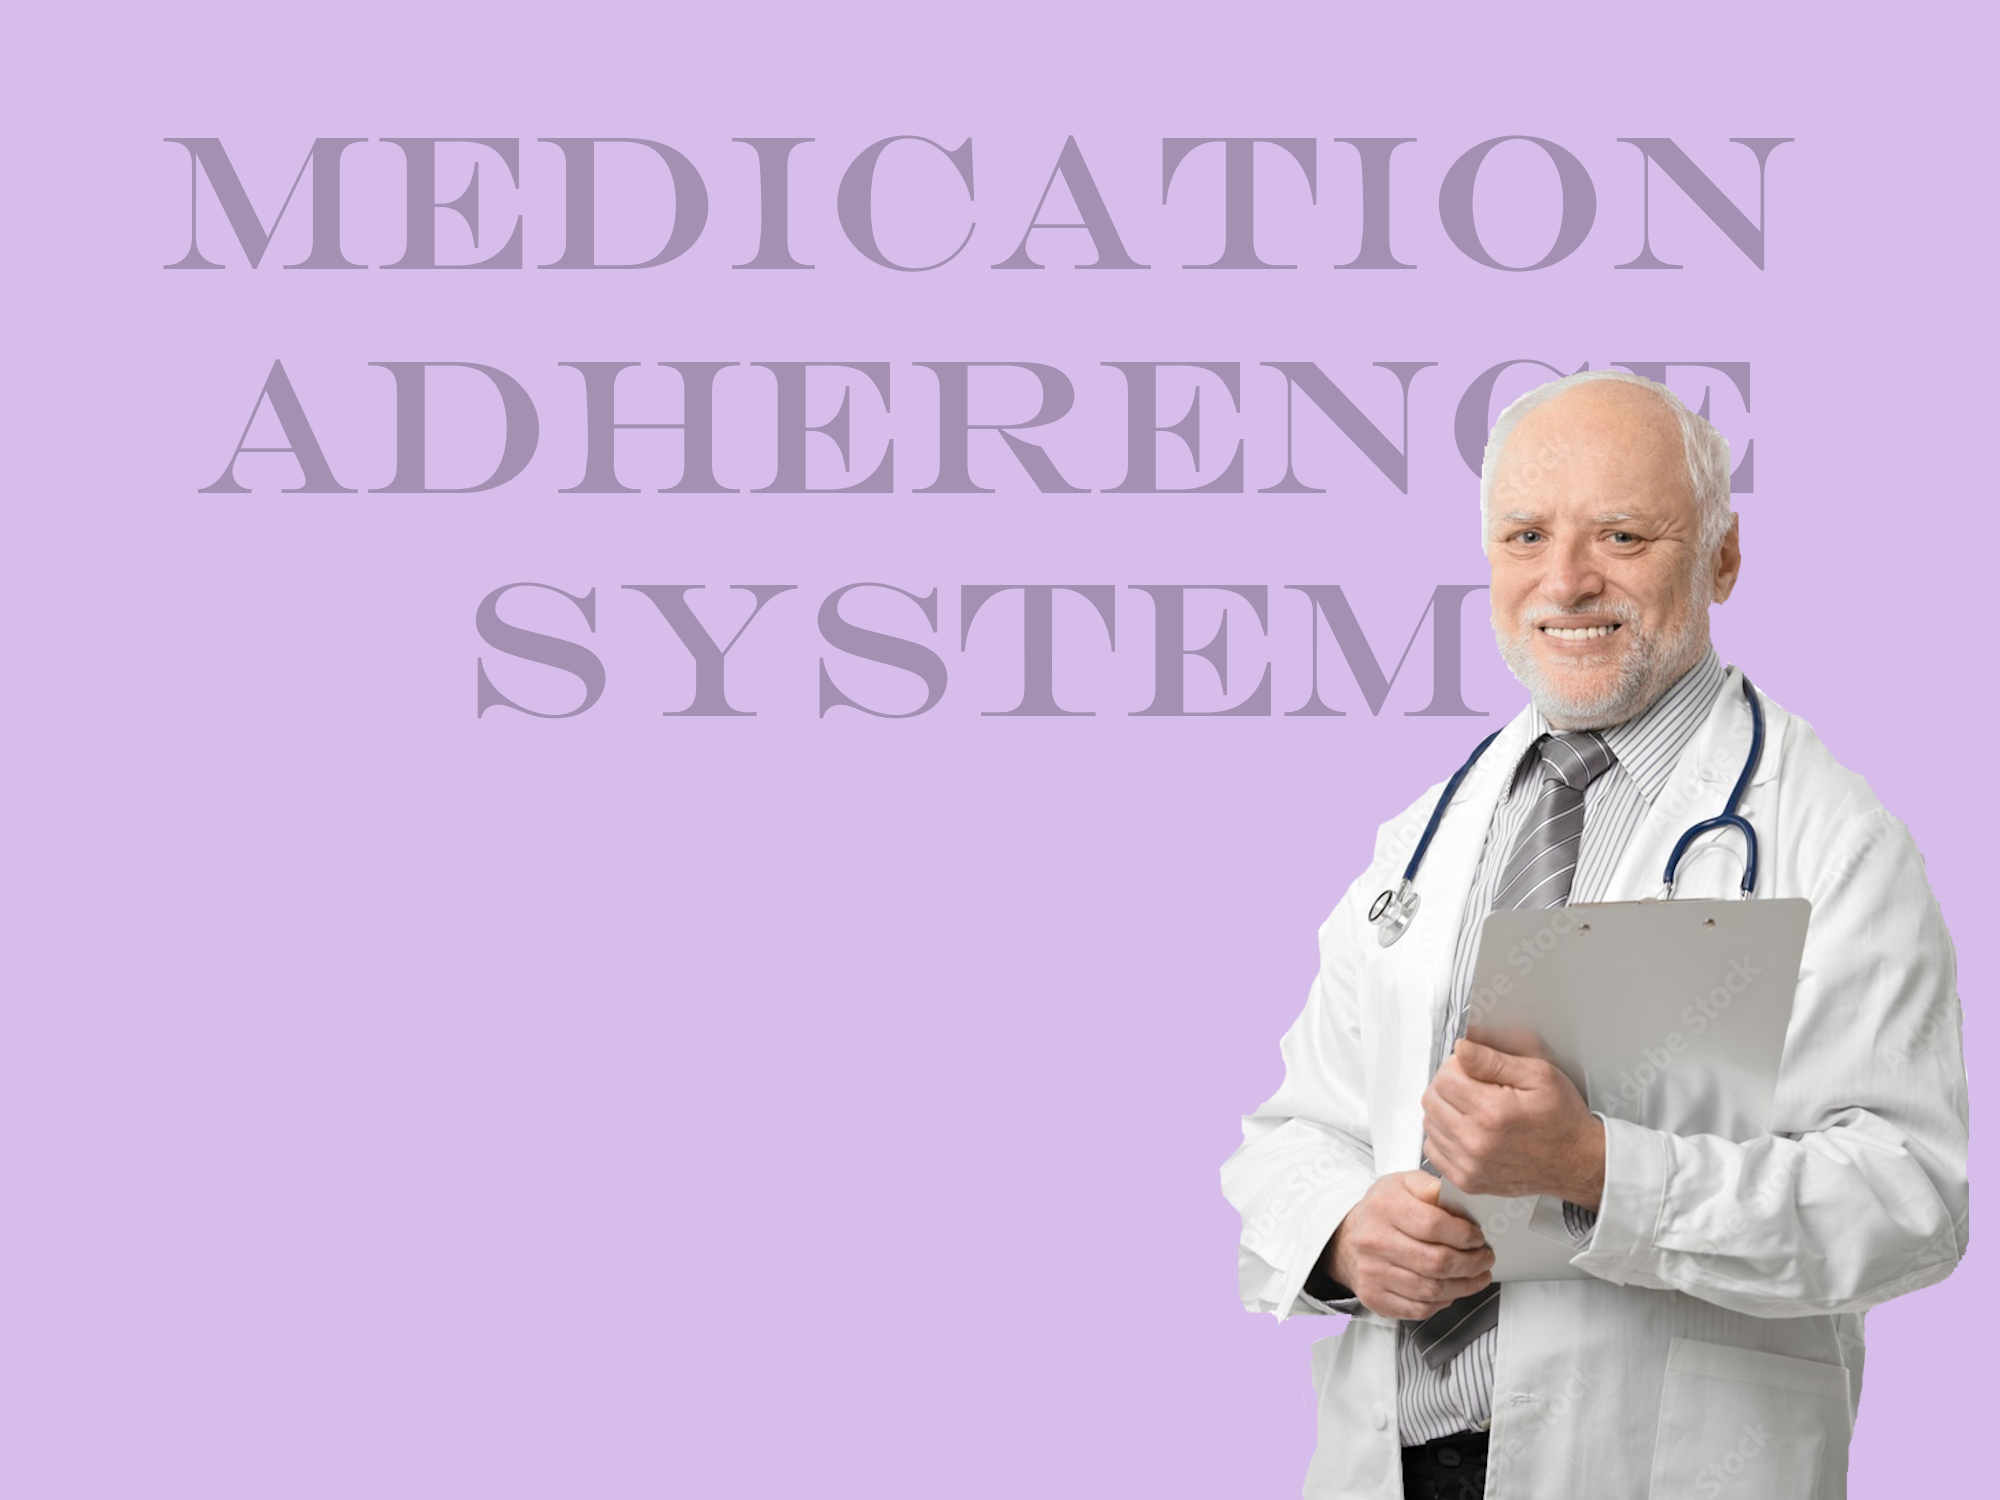
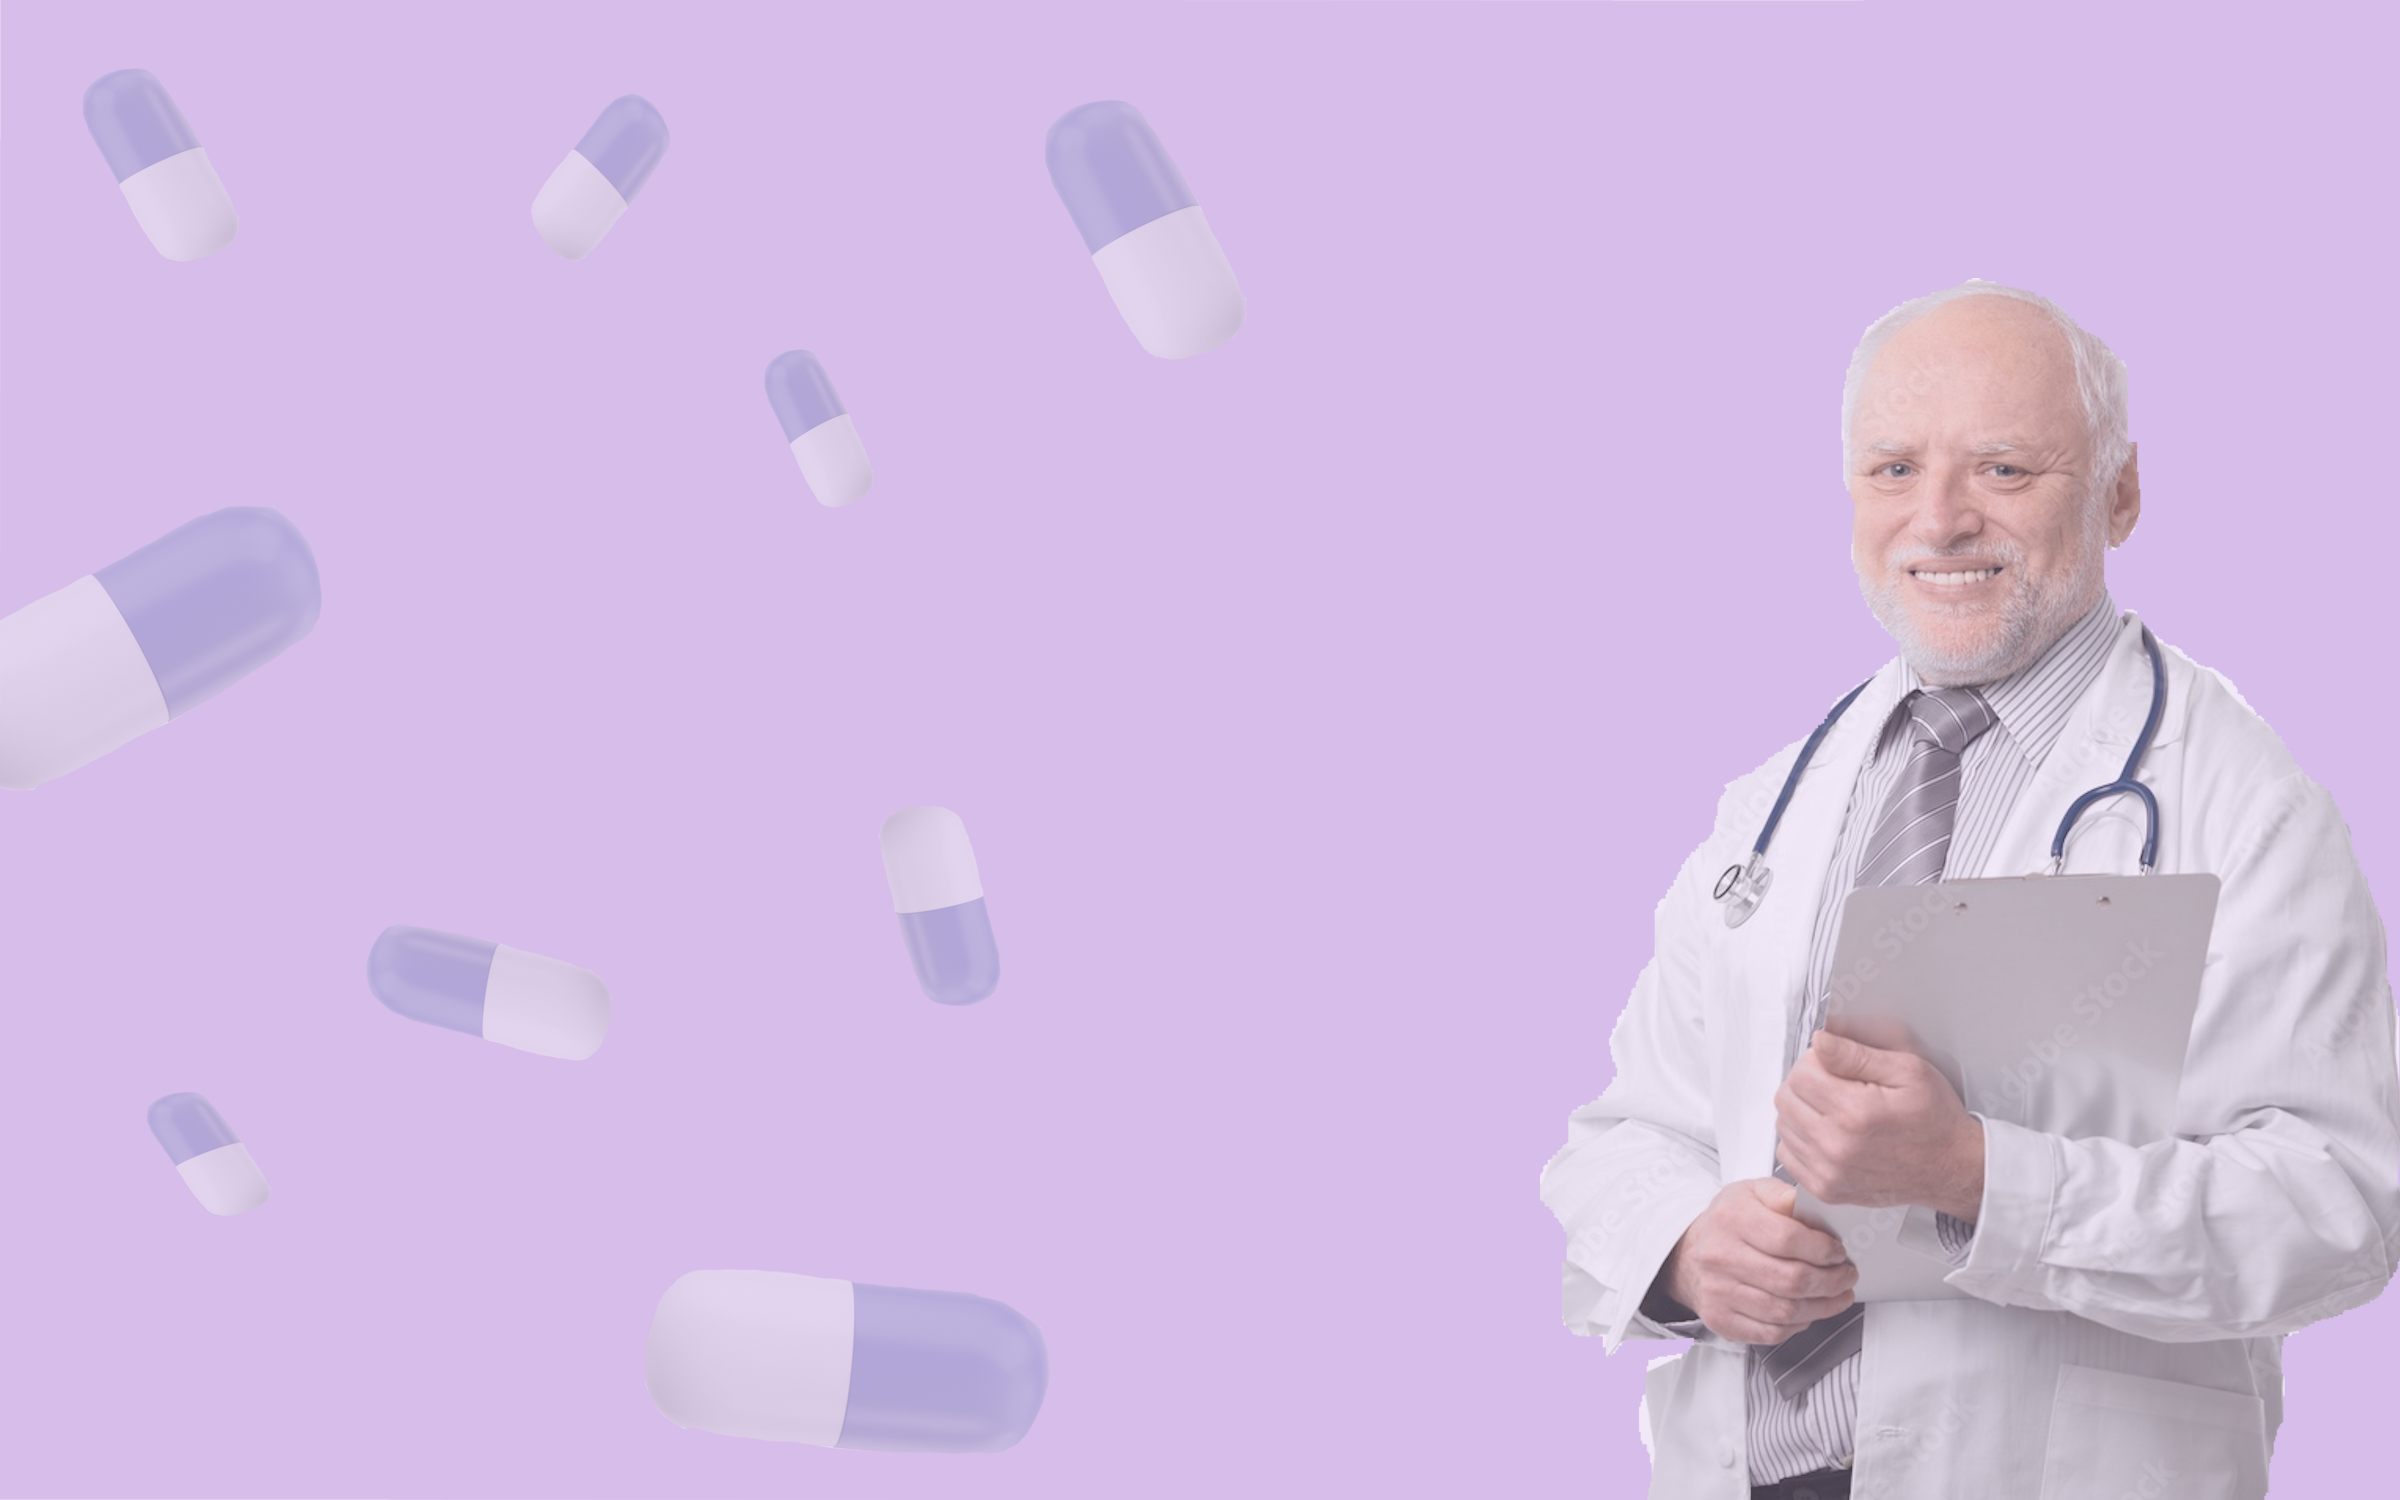
Several design changes. Additional .css created. Some formatting.

diff --git a/Medication Adherence System/PatientDashboard.css b/Medication Adherence System/PatientDashboard.css
@@ -1,0 +1,61 @@
+/* Overall Page Styling */
+body {
+    font-family: Arial, sans-serif;
+    background-image: url('assets/haroldbackgroundwide.png');  
+    background-size: cover;       /* Ensure the image covers the entire background */
+    background-position: top;  /* Center the image */
+    background-repeat: no-repeat; /* Prevent the image from repeating */
+    margin: 0;
+    padding: 20px;
+    text-align: center;  /* center all content */
+  }
+  
+  /* Heading Styling */
+  h1 {
+    color: #ffffff;
+    font-size: 4em;
+    font-family: 'Roboto', 'Helvetica Neue', Arial, sans-serif;
+    text-shadow: 3px 3px 6px rgba(20, 2, 45, 0.5);
+    margin-bottom: 40px;
+  }
+  p1 {
+    color: #ffffff;
+    font-size: 2em;
+    font-family: 'Roboto', 'Helvetica Neue', Arial, sans-serif;
+    text-shadow: 3px 3px 6px rgba(20, 2, 45, 0.5);
+    margin-bottom: 40px;
+  }
+  p2 {
+    color: #ffffff;
+    font-size: 1.5em;
+    font-family: 'Roboto', 'Helvetica Neue', Arial, sans-serif;
+    text-shadow: 3px 3px 6px rgba(20, 2, 45, 0.5);
+    margin-bottom: 40px;
+  }
+  /* Link Styling */
+  a {
+    text-decoration: none; /* remove default underline on links */
+  }
+  
+  /* Button Styling */
+  input[type="button"] {
+    margin-top: 60px;
+    background-color: #be0869; 
+    border: none;
+    color: white;
+    padding: 15px 30px;
+    text-align: center;
+    font-size: 16px;
+    font-family: 'Roboto', 'Helvetica Neue', Arial, sans-serif;
+    text-decoration: none;
+    display: inline-block;
+    border-radius: 5px;
+    cursor: pointer;
+    transition: background-color 0.3s ease;
+  }
+  
+  /* Hover effect for buttons */
+  input[type="button"]:hover {
+    background-color: #2186aa;
+  }
+  

diff --git a/Medication Adherence System/createpatientaccount.css b/Medication Adherence System/createpatientaccount.css
@@ -1,11 +1,11 @@
 /* Overall Page Styling */
 body {
     font-family: Arial, sans-serif;
-    background-image: url('assets/doctorbackground.png');  
+    background-image: url('assets/haroldbackgroundwide.png');  
     background-size: cover;       /* Ensure the image covers the entire background */
     background-position: center;  /* Center the image */
     background-repeat: no-repeat; /* Prevent the image from repeating */
-    margin: 0;
+    margin: 200px;
     padding: 20px;
     text-align: center;  /* center all content */
   }
@@ -18,7 +18,13 @@ body {
     text-shadow: 3px 3px 6px rgba(20, 2, 45, 0.5);
     margin-bottom: 40px;
   }
-
+  h2 {
+    color: #f86401;
+    font-size: 2em;
+    font-family: 'Roboto', 'Helvetica Neue', Arial, sans-serif;
+    text-shadow: 3px 3px 6px rgba(20, 2, 45, 0.5);
+    margin-bottom: 40px;
+  }
   p1 {
     color: #ffffff;
     font-size: 2em;
@@ -33,14 +39,6 @@ body {
     text-shadow: 3px 3px 6px rgba(20, 2, 45, 0.5);
     margin-bottom: 40px;
   }
-  p3 {
-    color: #6500b8;
-    font-size: 1.5em;
-    font-family: 'Roboto', 'Helvetica Neue', Arial, sans-serif;
-    text-shadow: 3px 3px 6px rgba(20, 2, 45, 0.5);
-    margin-bottom: 40px;
-  }
-
   /* Link Styling */
   a {
     text-decoration: none; /* remove default underline on links */

diff --git a/Medication Adherence System/createProviderAccount.css b/Medication Adherence System/createProviderAccount.css
@@ -5,7 +5,7 @@ body {
     background-size: cover;       /* Ensure the image covers the entire background */
     background-position: center;  /* Center the image */
     background-repeat: no-repeat; /* Prevent the image from repeating */
-    margin: 0;
+    margin: 200px;
     padding: 20px;
     text-align: center;  /* center all content */
   }
@@ -13,7 +13,14 @@ body {
   /* Heading Styling */
   h1 {
     color: #ffffff;
-    font-size: 4em;
+    font-size: 3em;
+    font-family: 'Roboto', 'Helvetica Neue', Arial, sans-serif;
+    text-shadow: 3px 3px 6px rgba(20, 2, 45, 0.5);
+    margin-top: 10px;
+  }
+  h2 {
+    color: #d0f0fb;
+    font-size: 2em;
     font-family: 'Roboto', 'Helvetica Neue', Arial, sans-serif;
     text-shadow: 3px 3px 6px rgba(20, 2, 45, 0.5);
     margin-bottom: 40px;

diff --git a/Medication Adherence System/MedicationAdherenceWebsiteLogin.css b/Medication Adherence System/MedicationAdherenceWebsiteLogin.css
@@ -1,11 +1,11 @@
 /* Overall Page Styling */
 body {
   font-family: Arial, sans-serif;
-  background-image: url('assets/background.png');  
+  background-image: url('assets/medicationadherencebackground.png');  
   background-size: cover;       /* Ensure the image covers the entire background */
   background-position: center;  /* Center the image */
   background-repeat: no-repeat; /* Prevent the image from repeating */
-  margin: 0;
+  margin: 10px;
   padding: 20px;
   text-align: center;  /* center all content */
 }

diff --git a/Medication Adherence System/PatientLogin.css b/Medication Adherence System/PatientLogin.css
@@ -1,7 +1,7 @@
 /* Overall Page Styling */
 body {
     font-family: Arial, sans-serif;
-    background-image: url('assets/background.png');  
+    background-image: url('assets/haroldbackgroundwide.png');  
     background-size: cover;       /* Ensure the image covers the entire background */
     background-position: center;  /* Center the image */
     background-repeat: no-repeat; /* Prevent the image from repeating */

diff --git a/Medication Adherence System/CreateProviderAccount.html b/Medication Adherence System/CreateProviderAccount.html
@@ -2,8 +2,10 @@
 <html>
 <head>
   <title>Create Provider Account</title>
+  <link rel="stylesheet" href="createProviderAccount.css">
 </head>
 <body>
+  <h1>Medication Adherence Program</h1><br><br>
   <h2>Create Provider Account</h2>
 
   First Name: <input type="text" id="provider-firstname" placeholder="First Name"><br>

diff --git a/Medication Adherence System/MedicationAdherenceWebsiteLogin.html b/Medication Adherence System/MedicationAdherenceWebsiteLogin.html
@@ -2,6 +2,7 @@
 <html>
 <head>
     <title>Medication Adherence Program</title>
+    <link rel="stylesheet" href="MedicationAdherenceWebsiteLogin.css">
     <style>
         body {
             font-family: Arial, sans-serif;

diff --git a/Medication Adherence System/ProviderMedicationAdherenceWebsite.html b/Medication Adherence System/ProviderMedicationAdherenceWebsite.html
@@ -2,6 +2,7 @@
 <html>
 <head>
     <title>Provider Medication Adherence Website</title>
+    <link rel="stylesheet" href="ProviderMedicationAdherenceWebsite.css">
 </head>
 <body>
     <h1>Medication Adherence Program</h1>

diff --git a/Medication Adherence System/MedicationAdherenceWebsite.html b/Medication Adherence System/MedicationAdherenceWebsite.html
@@ -2,6 +2,7 @@
 <html>
 <head>
     <title>Medication Adherence Website</title>
+    <link rel="stylesheet" href="MedicationAdherenceWebsiteLogin.css">
 </head>
 <body>
     <h1>Medication Adherence Program</h1>

diff --git a/Medication Adherence System/CreatePatientAccount.html b/Medication Adherence System/CreatePatientAccount.html
@@ -2,6 +2,7 @@
 <html>
 <head>
   <title>Create Patient Account</title>
+  <link rel="stylesheet" href="createpatientaccount.css">
 </head>
 <body>
   <h2>Create Patient Account</h2>

diff --git a/Medication Adherence System/PatientDashboard.html b/Medication Adherence System/PatientDashboard.html
@@ -2,6 +2,7 @@
 <html>
 <head>
   <title>Patient Dashboard</title>
+  <link rel="stylesheet" href="PatientDashboard.css">
 </head>
 <body>
   <h1>Patient Dashboard</h1>
